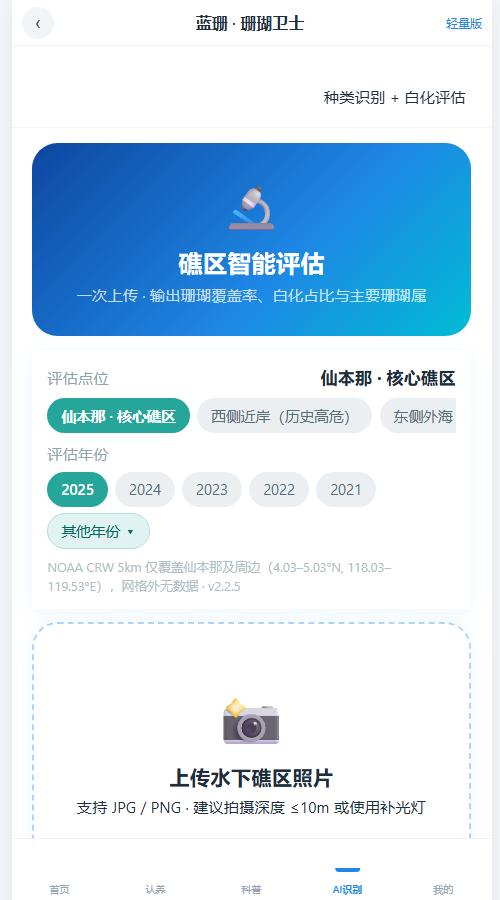
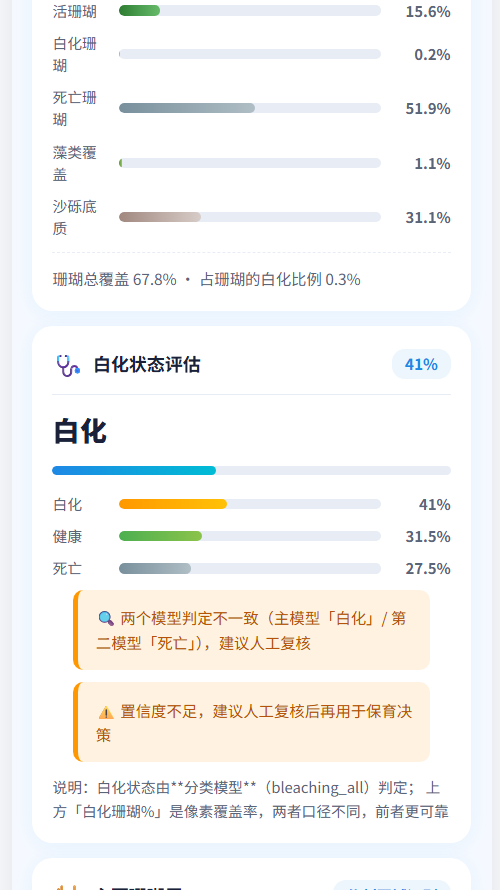
docs(README): 更新演示截图为修复后的真实运行画面（含 AI 识别真实结果）
- demo_index：首页（渐变按钮 / 彩色数字 / 渐变 logo 均已正常）
- demo_ai_setup：AI 识别页上传区（点位芯片 + 近五年与全部年份 + 照片）
- demo_ai：AI 识别**真实结果**（覆盖率 67.8%、白化 41%、共识提示「两模型判定不一致，建议人工复核」）
- demo_knowledge / demo_species：科普与全部珊瑚种类（卡片布局修复后）
- 截图由 web/_dev/_shot_driver.html 驱动真实页面生成（不是手工拼图）
- README 图片改为一行五图 + 图注，说明是网页版真实截图、共 22 页

diff --git a/ai-service/web/_dev/_shot_driver.html b/ai-service/web/_dev/_shot_driver.html
@@ -1,0 +1,41 @@
+<!DOCTYPE html>
+<html><head><meta charset="utf-8"><title>shot driver</title>
+<style>html,body{margin:0;padding:0;background:#fff}iframe{position:fixed;inset:0;width:100%;height:100%;border:0}</style>
+</head><body>
+<iframe id="fr" src="/"></iframe>
+<script>
+  // 截图驱动：把 App 放进全屏 iframe，切到指定页；ai 页会自动注入示例图并跑真实识别，
+  // 然后滚动到结果区 —— 这样 README 里能放"带真实结果"的截图。
+  const q = new URLSearchParams(location.search);
+  const page = q.get('page') || 'index';
+  const scrollTo = q.get('scroll') || '';
+  const fr = document.getElementById('fr');
+  const wait = (ms) => new Promise((r) => setTimeout(r, ms));
+
+  setTimeout(async function () {
+    try {
+      const w = fr.contentWindow;
+      w.location.hash = '#/' + page;
+      await wait(2600);
+      if (page === 'ai' && q.get('run') === '1') {
+        const R = w.MP_RUNTIME;
+        const inst = R.state.stack[R.state.stack.length - 1].inst;
+        const blob = await fetch('/sample?index=' + (q.get('idx') || '4') + '&set=semporna').then((r) => r.blob());
+        inst.setData({ imgPath: URL.createObjectURL(blob), state: 'preview' });
+        await wait(400);
+        if (inst.startAnalysis) inst.startAnalysis();
+        await wait(9000);                      // 等识别完成并渲染
+        const res = w.document.getElementById('results');
+        if (res) res.scrollIntoView();
+        await wait(600);
+      } else if (scrollTo) {
+        const el = w.document.querySelector(scrollTo);
+        if (el) el.scrollIntoView();
+        await wait(600);
+      }
+      document.title = 'READY';
+    } catch (e) {
+      document.title = 'ERR ' + e.message;
+    }
+  }, 1200);
+</script></body></html>

diff --git a/README.md b/README.md
@@ -5,10 +5,17 @@
 > **微信小程序 + 网页版 + 算法服务，一个仓库跑通。**
 
 <p align="center">
-  <img src="docs/images/demo_index.png" width="240" alt="首页">
-  <img src="docs/images/demo_ai.png" width="240" alt="AI 识别">
-  <img src="docs/images/demo_knowledge.png" width="240" alt="科普">
+  <img src="docs/images/demo_index.png" width="150" alt="首页">
+  <img src="docs/images/demo_ai_setup.png" width="150" alt="AI 识别 · 上传照片与选择点位/年份">
+  <img src="docs/images/demo_ai.png" width="185" alt="AI 识别结果：覆盖率 67.8% / 白化 41% / 双模型共识提示">
+  <img src="docs/images/demo_knowledge.png" width="150" alt="科普">
+  <img src="docs/images/demo_species.png" width="150" alt="全部珊瑚种类">
 </p>
+
+<p align="center"><sub>
+从左到右：首页 · AI 识别（上传与点位/年份）· <b>AI 识别真实结果</b>（覆盖率 67.8%、白化 41%、<b>双模型共识提示「建议人工复核」</b>）· 科普 · 全部珊瑚种类<br>
+（均为网页版真实运行截图；微信小程序是同一套页面代码，共 22 页）
+</sub></p>
 
 ---
 
